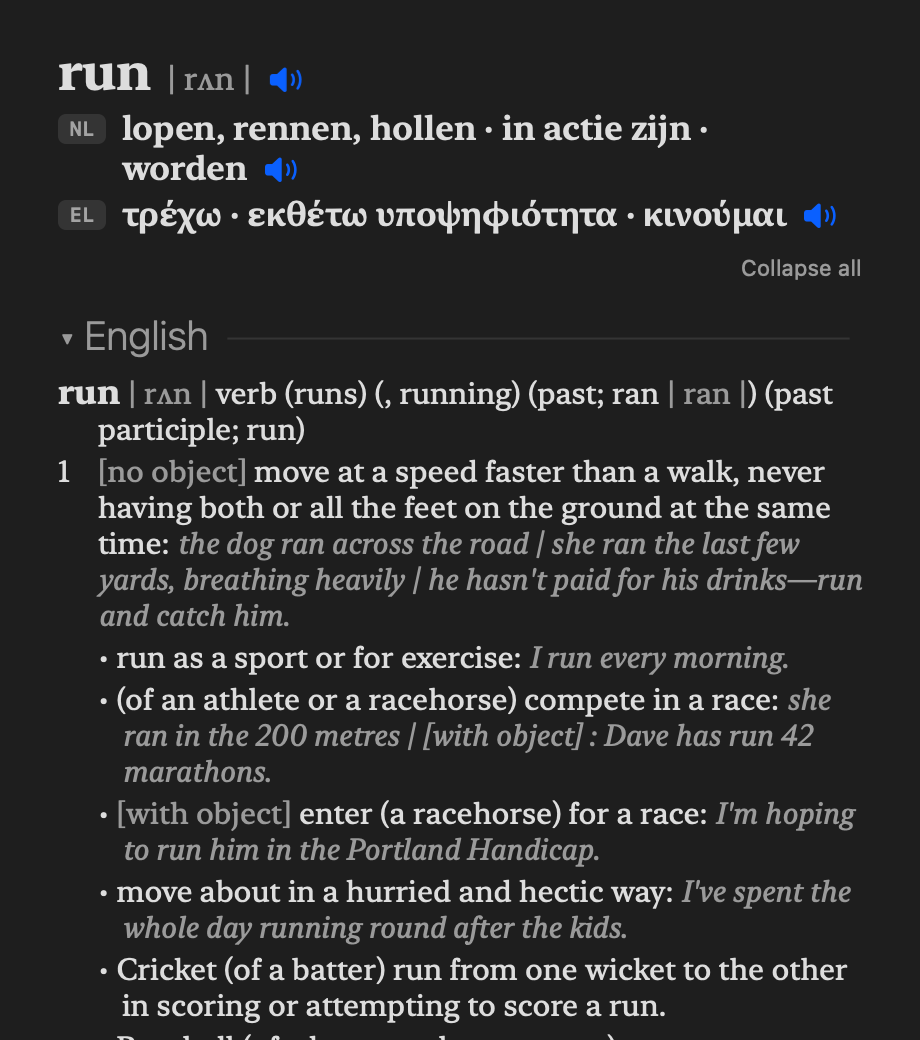
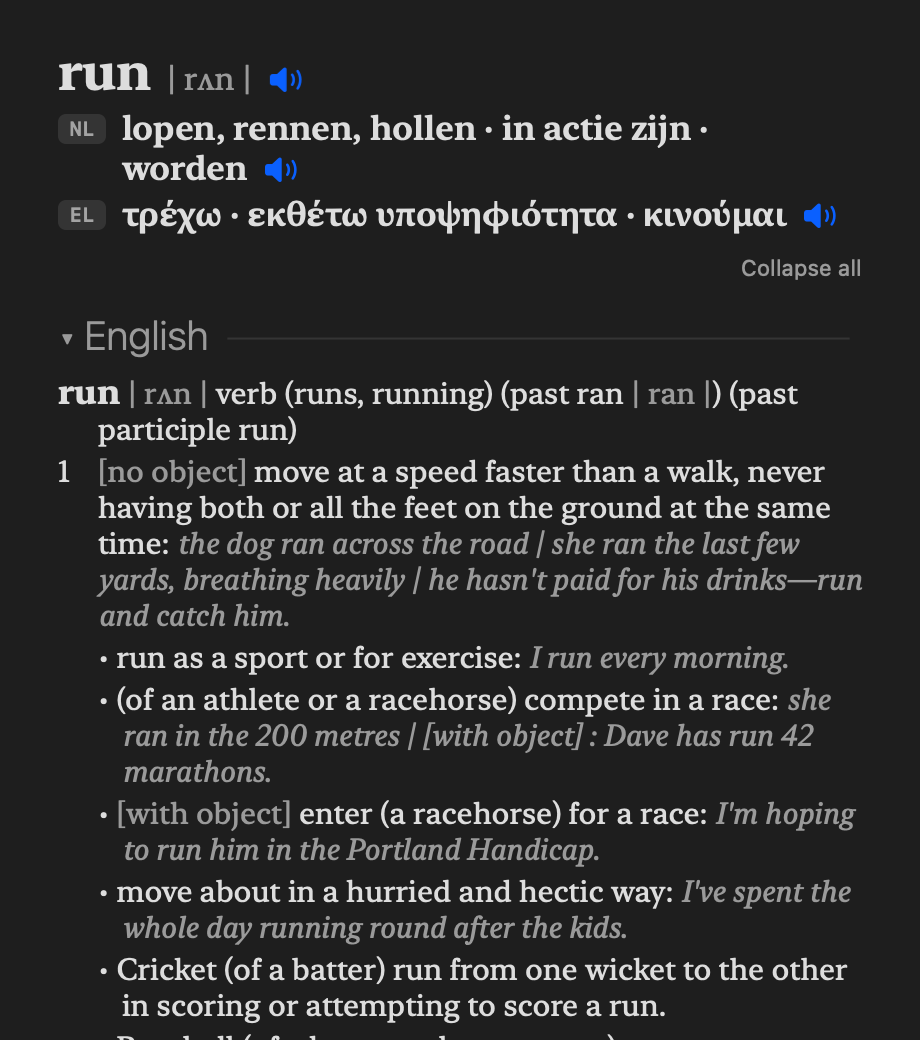
README images re-rendered: the run card, the welcome window's languages, the sample vocabulary

Changed region(s): [[0.3957, 0.3692, 0.913, 0.4], [0.2435, 0.4, 0.3348, 0.4308]]

diff --git a/docs/sample-vocabulary.md b/docs/sample-vocabulary.md
@@ -6,7 +6,7 @@
 | --- | --- | --- | --- |
 | **outcome** | the way a thing turns out; a consequence | uitslag, resultaat | έκβαση, κατάληξη |
 | **wary** | feeling or showing caution about possible dangers or problems | omzichtig, behoedzaam, voorzichtig | προσεχτικός, επιφυλακτικός δύσπιστος |
-| **thorough** | complete with regard to every detail; not superficial or partial | volmaakt, volledig, volkomen | λεπτομερής, εξονυχιστικός, πλήρης |
+| **thorough** | complete with regard to every detail; not superficial or partial | volmaakt, volledig, volkomen · ingrijpend · flink | λεπτομερής, εξονυχιστικός, πλήρης · προσεχτικός |
 
 ## Dutch
 
@@ -14,7 +14,7 @@
 | --- | --- | --- |
 | **lopen** | walk, go | περπατώ, πάω με τα πόδια |
 | **huis** | house, home | σπίτι, κατοικία |
-| **gezellig** | companionable, sociable, convivial | κοινωνικός, ομιλητικός |
+| **gezellig** | companionable, sociable, convivial · snug | κοινωνικός, ομιλητικός · αναπαυτικός |
 
 ## Greek
 
@@ -22,4 +22,4 @@
 | --- | --- | --- |
 | **βλέπω** | see, look | zien, gaan zien |
 | **ταξίδι** | travel, journey, voyage | reizen |
-| **σπίτι** | home, house, place | huiselijk |
+| **σπίτι** | home, house, place | huis, verblijf, woning |
